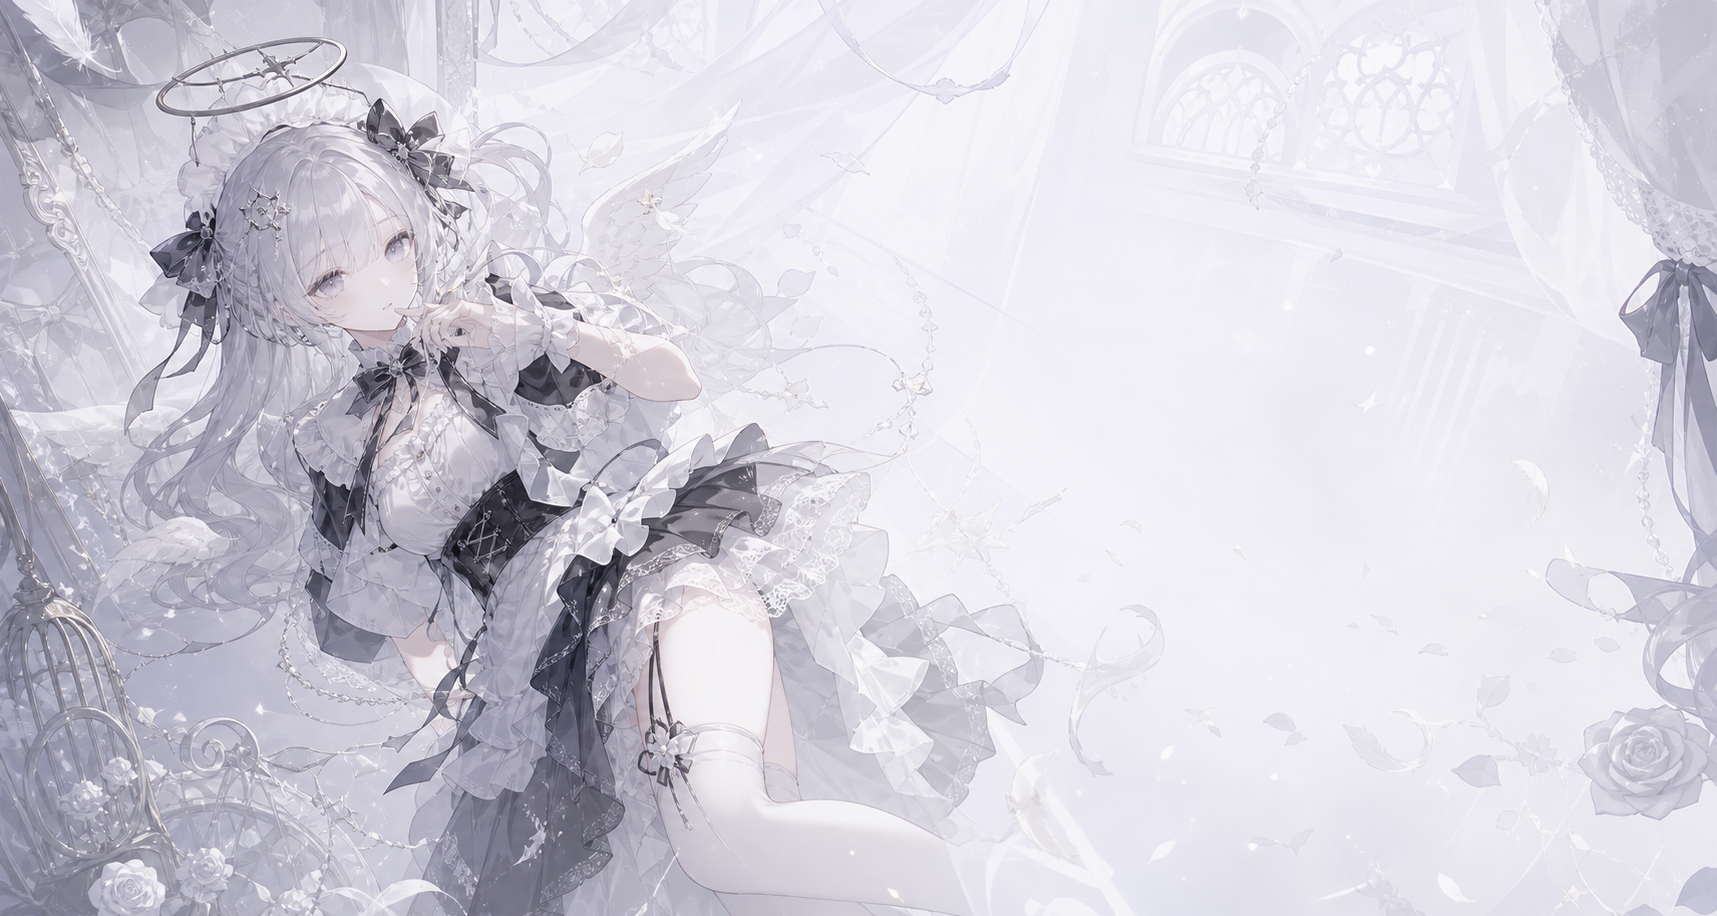
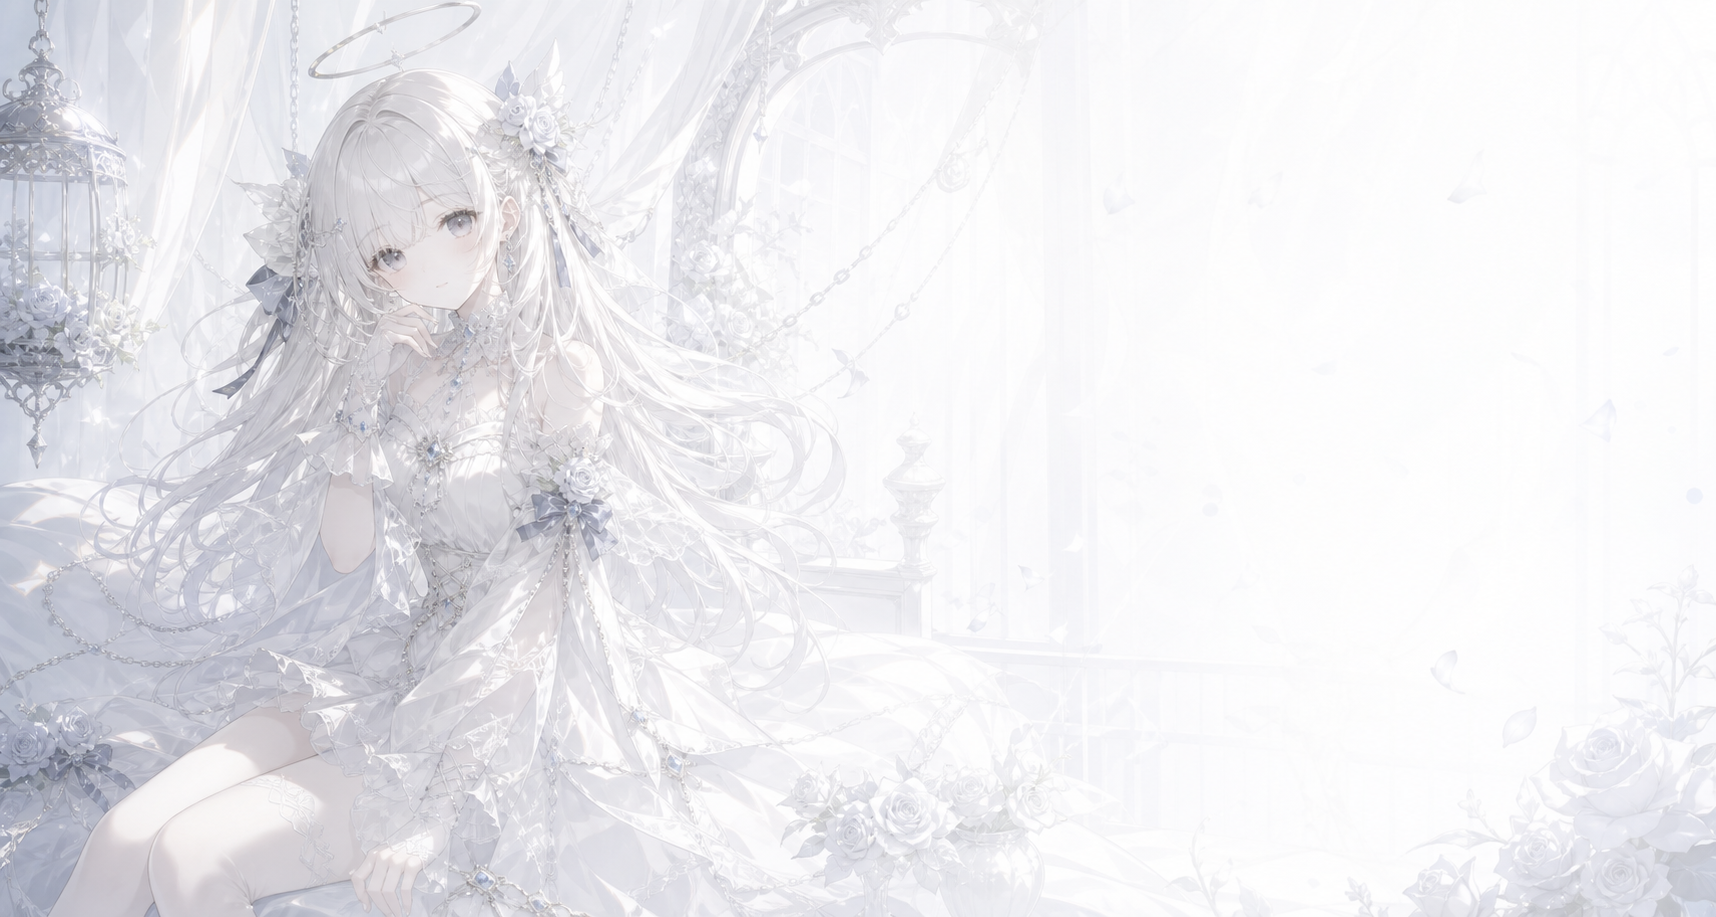
Replace members hero with provided image

diff --git a/members.html b/members.html
@@ -5,7 +5,7 @@
     <meta name="viewport" content="width=device-width, initial-scale=1.0" />
     <title>成员介绍 | 誓约俱乐部</title>
     <meta name="description" content="誓约俱乐部成员介绍，展示陪玩、代打、客服与管理成员。" />
-    <link rel="stylesheet" href="./styles.css?v=20260529-members-hero2" />
+    <link rel="stylesheet" href="./styles.css?v=20260529-members-hero3" />
   </head>
   <body class="members-page">
     <header class="site-header">
